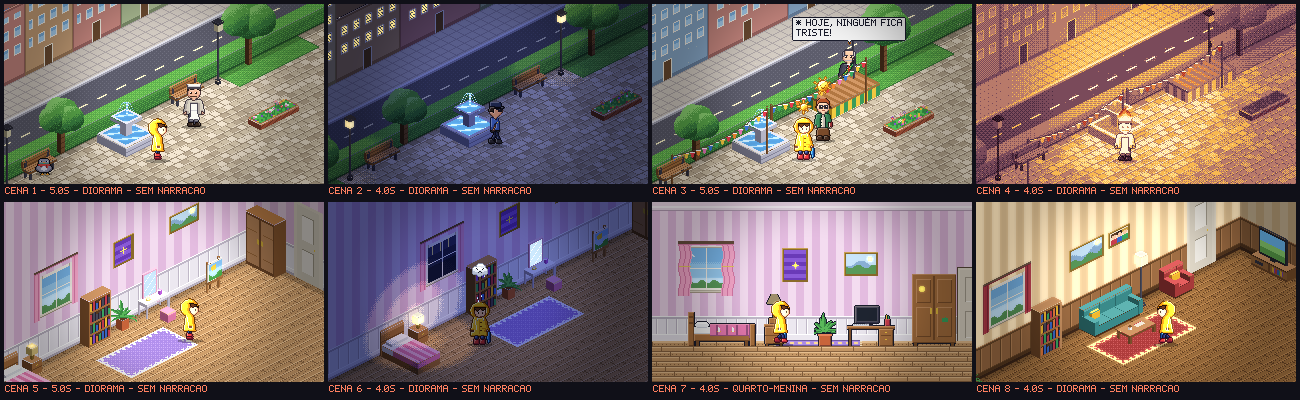
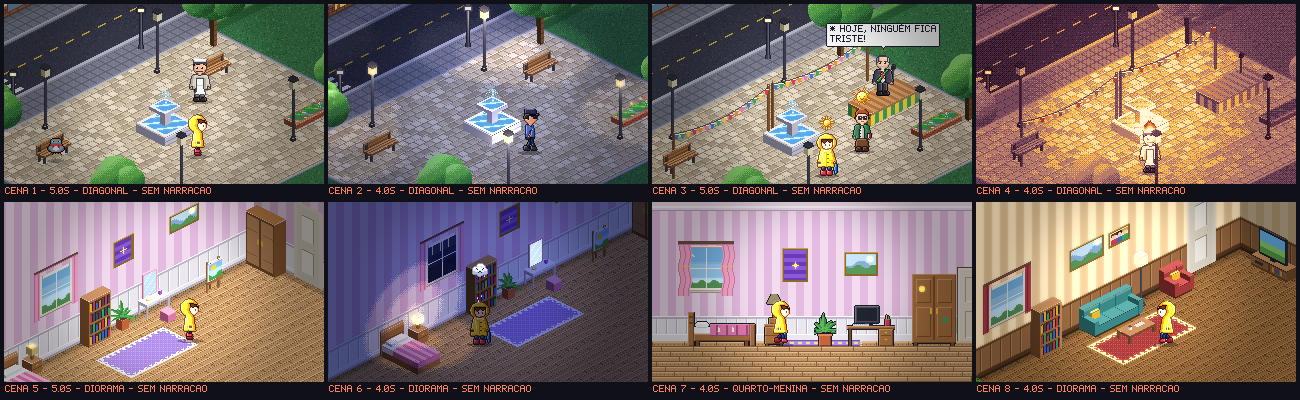
Praça na rua comercial diagonal (mesmos prédios), objetos isométricos e câmera focada na praça
Claude-Session: https://claude.ai/code/session_01L9V3oFJb1ahcbymZHH8qbL

diff --git a/motor/cenarios/ruaDiagonal.js b/motor/cenarios/ruaDiagonal.js
@@ -63,6 +63,17 @@ export function gerarRuaDiagonal(opc = {}) {
   const faixaPedestre = opc.faixaPedestre ?? 0;   // posição x (ao longo da rua) da faixa
   const jFaixa = -faixaPedestre;
   const bueiros = [J0 + 6, J0 + 19, J0 + 31].map((j) => j + (r() - 0.5) * 3);
+  // Praça do lado de cá da rua (no lugar do canteiro): "rua": { "praca": { "x": 0, "largura": 16, "profundidade": 12 } }.
+  // No roteiro: z = -0.9 (borda perto da rua) até z = -(profundidade - 1) (fundo, perto da câmera).
+  const op = opc.praca;
+  const PR = op ? { i0: 7.0, i1: 7.0 + (op.profundidade ?? 12), j0: -(op.x ?? 0) - (op.largura ?? 16) / 2, j1: -(op.x ?? 0) + (op.largura ?? 16) / 2 } : null;
+  const pedra = (i, j) => {          // pedras bege em fileiras desencontradas (as mesmas da praça do diorama)
+    const fi = i * 2.4, k = Math.floor(fi), fj = j * 2.4 + (k % 2) * 0.5, kj = Math.floor(fj);
+    const ri = fi - k, rj = fj - kj, h = ((k * 73856093) ^ (kj * 19349663)) >>> 0;
+    if (ri < 0.12 || rj < 0.1) return '#9a8a74';
+    if (ri > 0.84) return '#e8dcc8';
+    return h % 5 === 0 ? '#b8a890' : h % 3 === 0 ? '#e8dcc8' : '#cfc0a8';
+  };
   for (let y = 0; y < H; y++) for (let x = 0; x < W; x++) {
     const X = (x - OX) / 16, Y = (y - OY) / 8;
     const i = (Y + X) / 2, j = (Y - X) / 2;
@@ -84,6 +95,9 @@ export function gerarRuaDiagonal(opc = {}) {
       else if (Math.abs(i - 3.5) < 0.06 && (j - Math.floor(j)) < 0.5) c = '#e0b838';
       for (const jb of bueiros) if (Math.abs(i - 1.95) < 0.12 && Math.abs(j - jb) < 0.35) c = (Math.floor(j * 16) % 2) ? '#1e1e26' : '#4a4a58';
       if (Math.hypot((i - 3.5) * 1.0, (j - (J0 + 12)) * 1.0) < 0.42) c = Math.hypot(i - 3.5, j - (J0 + 12)) < 0.36 ? ((Math.floor(i * 12) + Math.floor(j * 12)) % 2 ? '#4e4e5c' : '#3e3e4a') : '#2a2a34';
+    } else if (PR && i >= PR.i0 && i < PR.i1 && j >= PR.j0 && j <= PR.j1) {
+      const bi = Math.min(i - PR.i0, PR.i1 - i), bj = Math.min(j - PR.j0, PR.j1 - j);
+      c = bi < 0.18 || bj < 0.18 ? (bi < 0.09 || bj < 0.09 ? '#8a8c9c' : '#b6b8c6') : pedra(i, j);     // meio-fio em volta
     } else if (i < 7.4) c = '#2e5a3a';
     else { const v = r(); c = v < 0.1 ? '#4a9a5a' : v < 0.17 ? '#2c5a3a' : '#3a7a4a'; }
     pintar(x, y, c, i, j, 0);
@@ -116,11 +130,13 @@ export function gerarRuaDiagonal(opc = {}) {
   }
 
   // cerca viva entre a calçada da frente e o canteiro
-  prisma(7.0, 7.45, J0, J1, 0, 9, {
+  const cerca = (ja, jb) => prisma(7.0, 7.45, ja, jb, 0, 9, {
     frente: (x, y, u, t, l, s) => pintar(x, y, t > 7 ? '#4a8a4a' : ((u + t) % 3 ? '#2e6a3a' : '#3a7a44'), 7.45, s, t, 1, 0.92),
-    lado: (x, y, u, t, s) => pintar(x, y, '#24502e', s, J1, t, 1, 0.75),
+    lado: (x, y, u, t, s) => pintar(x, y, '#24502e', s, jb, t, 1, 0.75),
     topo: (x, y, i, j) => pintar(x, y, r() < 0.2 ? '#6aaa5a' : '#58984e', i, j, 9, 1, 1.1),
   });
+  if (PR) { if (PR.j0 > J0) cerca(J0, PR.j0); if (PR.j1 < J1) cerca(PR.j1, J1); }   // a cerca abre para a praça
+  else cerca(J0, J1);
 
   // ---------- prédios (da esquerda/fundo para a direita/frente: j crescente) ----------
   const tipos = Object.keys(PALETAS);
@@ -282,7 +298,9 @@ export function gerarRuaDiagonal(opc = {}) {
   const postes = [];
   const passo = opc.distanciaPostes ?? 8;
   for (let j = J0 + 3; j < J1 - 1; j += passo) { postes.push({ i: FAIXA.calcadaFundo, j }); postes.push({ i: FAIXA.calcadaFrente, j: j + passo / 2 }); }
-  const luzes = noite ? [...postes.map((p) => ({ ...p, h: 40, raio: 4.2, forca: 1 })), ...lojas] : [];
+  // luz dos postes da praça (os postes são sprites "poste-iso"; a luz no chão vem daqui)
+  const luzPraca = PR && noite ? (op.luzes ? op.luzes.map(([x, z]) => [FAIXA.calcadaFrente - z, -x]) : [[PR.i0 + 1.5, PR.j0 + 2], [PR.i0 + 1.5, PR.j1 - 2], [PR.i1 - 3, PR.j0 + 2], [PR.i1 - 3, PR.j1 - 2]]).map(([i, j]) => ({ i, j, h: 40, raio: 4.6, forca: 1 })) : [];
+  const luzes = noite ? [...postes.map((p) => ({ ...p, h: 40, raio: 4.2, forca: 1 })), ...lojas, ...luzPraca] : [];
   const amb = noite ? [0.70, 0.74, 0.94] : [1, 1, 1];
   const corLuz = [1.0, 0.86, 0.6];
   const saida = new Uint8ClampedArray(N * 4), brilho = new Uint8ClampedArray(N * 4);

diff --git a/motor/sprites-praca.js b/motor/sprites-praca.js
@@ -1,0 +1,41 @@
+// PROTÓTIPO (não aprovado): objetos da praça para a RUA DIAGONAL, desenhados igual aos móveis do diorama.
+// Posição no roteiro (x, z) = canto da FRENTE do objeto (o ponto mais baixo na tela). O objeto se estende
+// para a direita (+x, "largura") e para o fundo (+z, "fundo"). A ordem de desenho usa o centro do objeto,
+// então os personagens passam na frente ou atrás dele.
+import { Pix } from './pixel.js';
+import { registrarSprites } from './sprites.js';
+import { spriteIso } from './cenarios/comodoDiagonal.js';
+
+// estados: { nome: { tipo, op, noite } }; todos os quadros com o mesmo tamanho (o maior), base no mesmo ponto
+function iso(estados, extra = {}) {
+  const partes = Object.entries(estados).map(([nome, e]) => [nome, spriteIso(e.tipo, e.op || {}, { noite: !!e.noite })]);
+  const W = Math.max(...partes.map(([, s]) => s.w)) | 1, H = Math.max(...partes.map(([, s]) => s.h));
+  const quadros = [], brilho = [], anims = {};
+  let temBrilho = false;
+  for (const [nome, s] of partes) {
+    const p = new Pix(W, H), b = new Pix(W, H), dx = (W - s.w) / 2, dy = H - s.h;
+    for (let y = 0; y < s.h; y++) for (let x = 0; x < s.w; x++) {
+      const k = (y * s.w + x) * 4, kk = ((y + dy) * W + x + dx) * 4;
+      if (s.img[k + 3]) p.d.set(s.img.subarray(k, k + 4), kk);
+      if (s.br && s.br[k + 3]) { b.d.set(s.br.subarray(k, k + 4), kk); temBrilho = true; }
+    }
+    anims[nome] = { q: [quadros.length], fps: 1 };
+    quadros.push(p); brilho.push(b);
+  }
+  anims.parado = anims[partes[0][0]];
+  const s0 = partes[0][1];
+  return { quadros, brilho: temBrilho ? brilho : undefined, anims, sombra: false, isoCentro: { di: s0.di, dj: s0.dj }, ...extra };
+}
+const SECA = ['#c8b860', '#a89a48', '#7a7a3a', '#5a5a2a'];
+
+registrarSprites({
+  'fonte-iso': () => iso({ cheia: { tipo: 'fonte' }, seca: { tipo: 'fonte', op: { seca: true } } }),
+  'banco-iso': () => iso({ parado: { tipo: 'banco' } }),
+  'arvore-iso': () => iso({ verde: { tipo: 'arvore' }, seca: { tipo: 'arvore', op: { folhas: SECA } } }),
+  'arvore-iso-grande': () => iso({ verde: { tipo: 'arvore', op: { altura: 36, copa: 26 } }, seca: { tipo: 'arvore', op: { altura: 36, copa: 26, folhas: SECA } } }),
+  'poste-iso': () => iso({ apagado: { tipo: 'poste', op: { aceso: false } } }),
+  'poste-iso-aceso': () => iso({ aceso: { tipo: 'poste', op: { aceso: true } } }, { luz: { cor: '#ffe0a0', intensidade: 1.4, alcance: 5, dy: 3.4, dz: 0.6 } }),
+  'canteiro-iso': () => iso({ verde: { tipo: 'canteiro-flores' }, murcho: { tipo: 'canteiro-flores', op: { murcho: true } } }),
+  'palanque-iso': () => iso({ parado: { tipo: 'palanque-d' } }),
+  'bandeirinhas-iso': () => iso({ parado: { tipo: 'bandeirinhas' } }),
+});

diff --git a/motor/cenarios/comodoDiagonal.js b/motor/cenarios/comodoDiagonal.js
@@ -382,6 +382,36 @@ const MOVEIS = {
   } },
 };
 
+// ------------------------------------------------------------------ móveis como sprites (para a rua diagonal)
+// Desenha um móvel do diorama sozinho e devolve um sprite cuja base (centro de baixo) é o canto da FRENTE do
+// móvel: no roteiro, x/z do elemento = esse canto. Assim ele pode ficar na rua diagonal com os personagens
+// passando na frente ou atrás (a ordem segue a posição).
+export function spriteIso(tipo, op = {}, { noite = false } = {}) {
+  const def = MOVEIS[tipo];
+  const di = op.di ?? def.di, dj = op.dj ?? def.dj, HM = 96, pad = 4;
+  const OX = dj * 16 + pad + 40, OY = HM + pad;
+  const W = Math.ceil((di + dj) * 16 + 2 * pad + 80), H = Math.ceil((di + dj) * 8 + OY + pad);
+  const proj = (i, j, h = 0) => ({ x: (i - j) * 16 + OX, y: (i + j) * 8 + OY - h });
+  const L = new Camada({ W, H, OX, OY, proj });
+  def.f(L, { i0: 0, i1: di, j0: 0, j1: dj, h0: op.h0 }, { luzes: [], noite, op, semente: op.semente ?? 7 });
+  const ax = Math.round(proj(di, dj).x), ay = Math.round(proj(di, dj).y);
+  let x0 = W, x1 = -1, y0 = H;
+  for (let y = 0; y < H; y++) for (let x = 0; x < W; x++) if (L.tipo[y * W + x]) { x0 = Math.min(x0, x); x1 = Math.max(x1, x); y0 = Math.min(y0, y); }
+  const meia = Math.max(ax - x0, x1 - ax) + 1, w = meia * 2 + 1, h = ay - y0 + 1;
+  const img = new Uint8ClampedArray(w * h * 4), br = new Uint8ClampedArray(w * h * 4);
+  let temBrilho = false;
+  for (let y = 0; y < h; y++) for (let x = 0; x < w; x++) {
+    const sx = ax - meia + x, sy = y0 + y;
+    if (sx < 0 || sx >= W || sy >= H) continue;
+    const k = sy * W + sx; if (!L.tipo[k]) continue;
+    const f = L.tipo[k] === 2 ? 1 : L.face[k];
+    const px = [L.cor[k * 3] * f * 255, L.cor[k * 3 + 1] * f * 255, L.cor[k * 3 + 2] * f * 255, 255];
+    img.set(px, (y * w + x) * 4);
+    if (L.tipo[k] === 2) { br.set(px, (y * w + x) * 4); temBrilho = true; }
+  }
+  return { w, h, img, br: temBrilho ? br : null, di, dj };
+}
+
 // ------------------------------------------------------------------ cômodos prontos
 // moveis: { tipo, x (centro ao longo do cômodo), i (distância da parede do fundo), opções... }
 // paredes: decorações na parede do fundo (x) e na lateral (lateral: true, x = distância do fundo).

diff --git a/motor/vistas.js b/motor/vistas.js
@@ -159,7 +159,9 @@ function vistaDiagonal(c, motor) {
     posicionar(e, st, bob) {
       const i = iDe(e.def, st), j = -st.x;
       e.malha.position.copy(ponto(i, j, snap(st.y) + bob));
-      e.malha.renderOrder = ordem(i, j) + 1 + (e.def.sobre ? 2 : 0);   // o que está "sobre" alguém fica na frente dele
+      // objetos isométricos (praça): a ordem usa o centro do objeto, não o canto da frente
+      const c = e.sprite.isoCentro, ri = c ? (c.di ?? 1) / 2 : 0, rj = c ? (c.dj ?? 1) / 2 : 0;
+      e.malha.renderOrder = ordem(i - ri, j - rj) + 1 + (e.def.sobre ? 2 : 0);   // o que está "sobre" alguém fica na frente dele
     },
     posicionarSombra(e, st) {
       const i = iDe(e.def, st), j = -st.x;

diff --git a/motor/folha-sprites.html b/motor/folha-sprites.html
@@ -9,6 +9,7 @@ import './sprites-cidade.js';
 import './estabelecimentos.js';
 import './sprites-interiores.js';
 import './sprites-nesse-mundo.js';
+import './sprites-praca.js';
 import { desenharTexto } from './fonte.js';
 const c = document.getElementById('c'); const E = 4;
 const sprites = NOMES_SPRITES.map(n => [n, obterSprite(n)]);

diff --git a/motor/motor.js b/motor/motor.js
@@ -8,6 +8,7 @@ import './sprites-cidade.js';
 import './estabelecimentos.js';
 import './sprites-interiores.js';
 import './sprites-nesse-mundo.js';
+import './sprites-praca.js';
 import { criarVista } from './vistas.js';
 import { criarClima, criarRajada } from './particulas.js';
 import { UI } from './ui.js';

diff --git a/CLAUDE.md b/CLAUDE.md
@@ -169,14 +169,14 @@ a virada vem a **~70%** e o resto é a solução e o fechamento.
   `bueiro-monstro` (parado/agarrar/enjoado/fechado), `cone-monstro` (personagem; dormindo), `sanduiche`,
   `lista-compras` (abrindo), `malinha`. Cenários na biblioteca: `praca-festa`, `praca-festa-noite`, `rua-festa`
   (diagonal), `morro-mirante`, `rua-monstros`. Recursos novos do motor: ação `trocar`, `"sobre"`, `"balancar"`, clima `calor`.
-- **Diagonal nova — PROTÓTIPO, NÃO aprovado** (teste em `projetos/prototipo-diagonal`, `previa.png`): modo
-  `"exterior": true` do diorama (sem paredes; chão vai além da tela; atrás da cerca viva: rua e fileira de prédios, céu só acima dos telhados; piso `pedras`, tapete `grama`) e cômodos `praca`,
-  `praca-noite`, `praca-festa` (palanque: em cima `"y": 0.75`) + `quarto-menina` / `quarto-menina-noite`
-  (diorama e lateral). Móveis novos do diorama: `fonte` (`seca`), `banco`, `arvore` (`altura`, `copa`, `folhas`),
-  `poste`, `canteiro-flores` (`murcho`), `palanque-d`, `bandeirinhas`, `penteadeira`, `pufe`, `cavalete`.
-  Cenários (em `projetos/prototipo-diagonal/cenarios.json`): `praca-diorama`, `praca-noite-diorama`,
-  `praca-festa-diorama`, `praca-seca-diorama`, `quarto-menina-diorama`, `quarto-menina-noite-diorama`,
-  `quarto-menina`, `quarto-menina-noite`.
+- **Diagonal nova — PROTÓTIPO, NÃO aprovado** (teste em `projetos/prototipo-diagonal`, `previa.png`, imagens em `praca/`):
+  **praça na rua comercial** (opção `"rua": { "praca": { "x", "largura", "profundidade" } }` do `ruaDiagonal.js`, no lugar
+  do canteiro, de frente para os mesmos prédios; câmera `"z": -8.5` foca a praça) com objetos isométricos
+  (`motor/sprites-praca.js`: `fonte-iso` cheia/seca, `banco-iso`, `arvore-iso`/`-grande` verde/seca, `poste-iso`,
+  `poste-iso-aceso`, `canteiro-iso` verde/murcho, `palanque-iso`, `bandeirinhas-iso`; x/z = canto da frente; estado
+  inicial com `"pose"`). Cenários: `praca`, `praca-noite`, `praca-festa`, `praca-seca`. Também `quarto-menina` /
+  `quarto-menina-noite` (diorama e lateral) com móveis `penteadeira`, `pufe`, `cavalete`. O modo `"exterior"` do
+  diorama (praça com prédios próprios) foi trocado pela praça na rua (o usuário preferiu os prédios de antes).
 - **Arte do canal "Histórias em Pixel" (protótipo):** geradores de banner e ícone em `projetos/canal/arte/`
   (`banner.html`, `icone.html`, `gerar.mjs`); o `banner.png` ainda não foi substituído.
 - **Branch de trabalho único:** `claude/modest-hamilton-4p4851` (já reúne `jolly-archimedes`, `cool-noether`,
